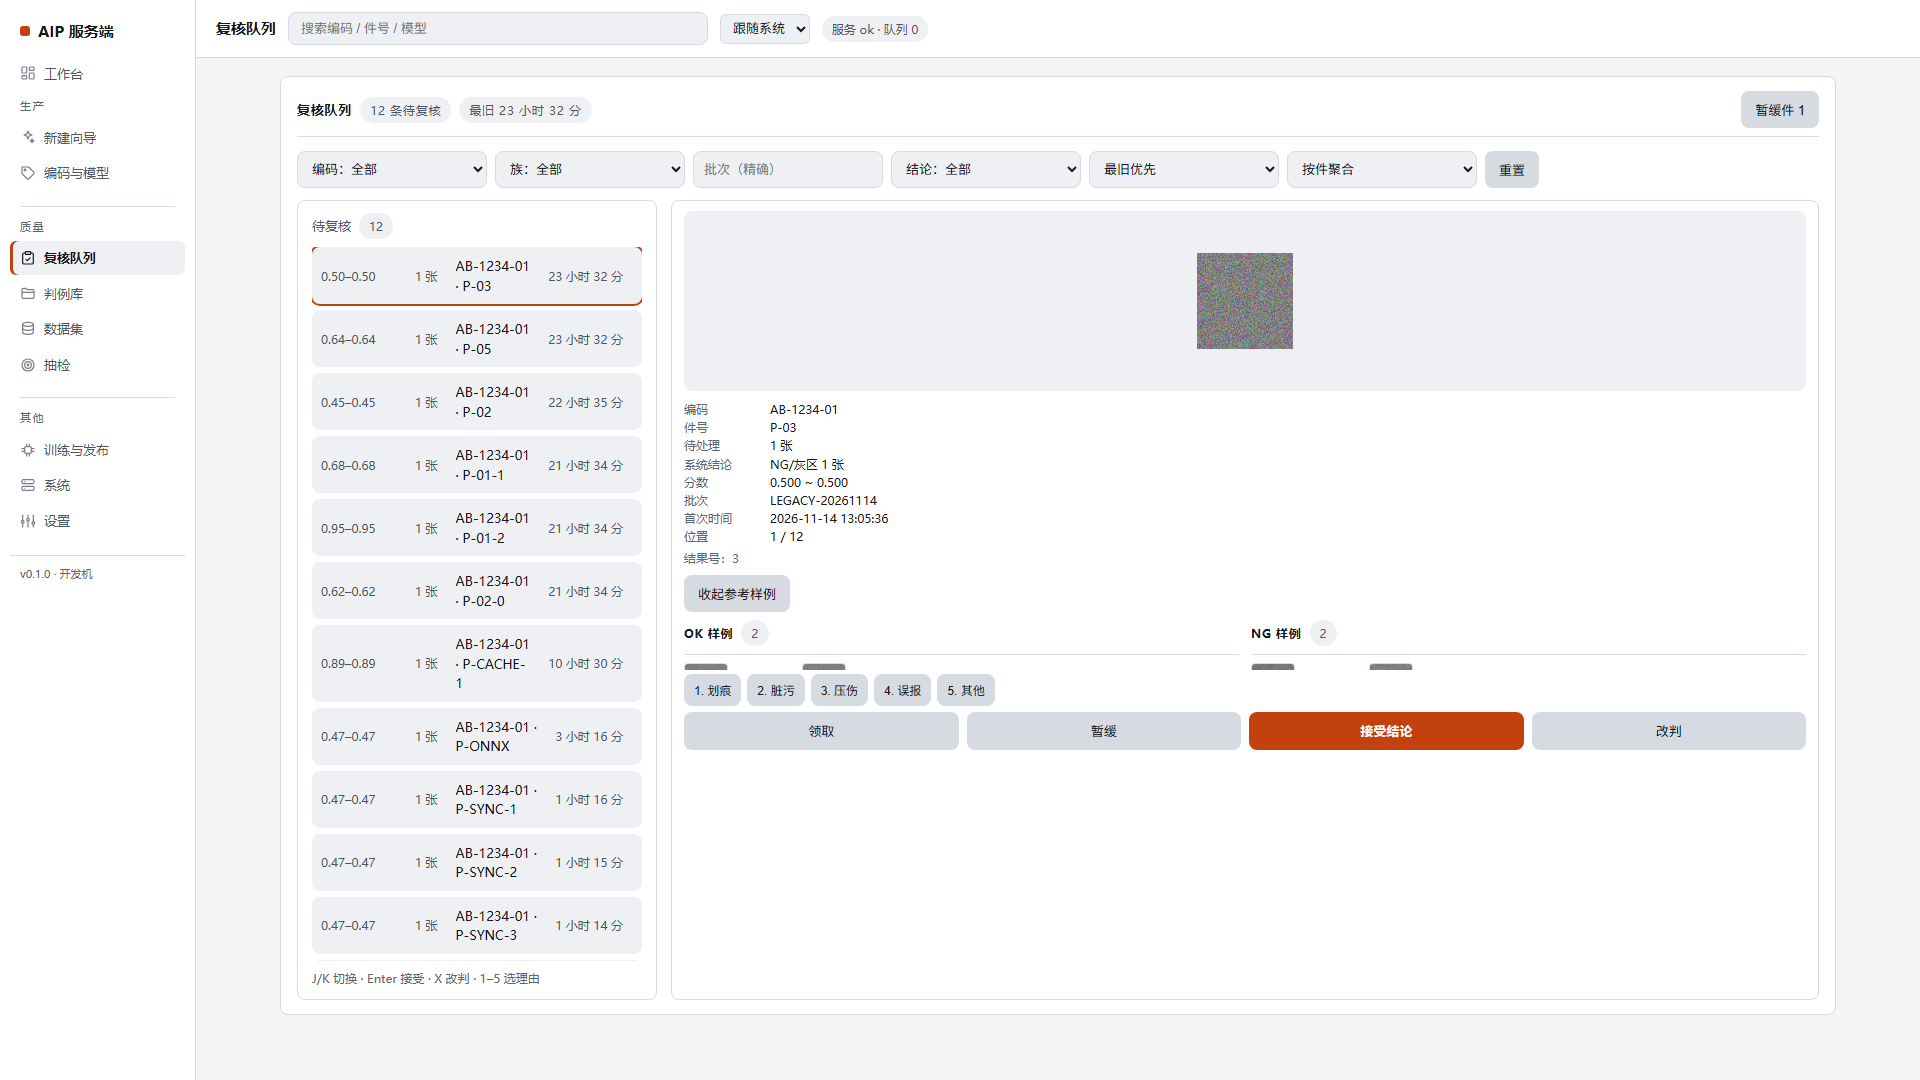
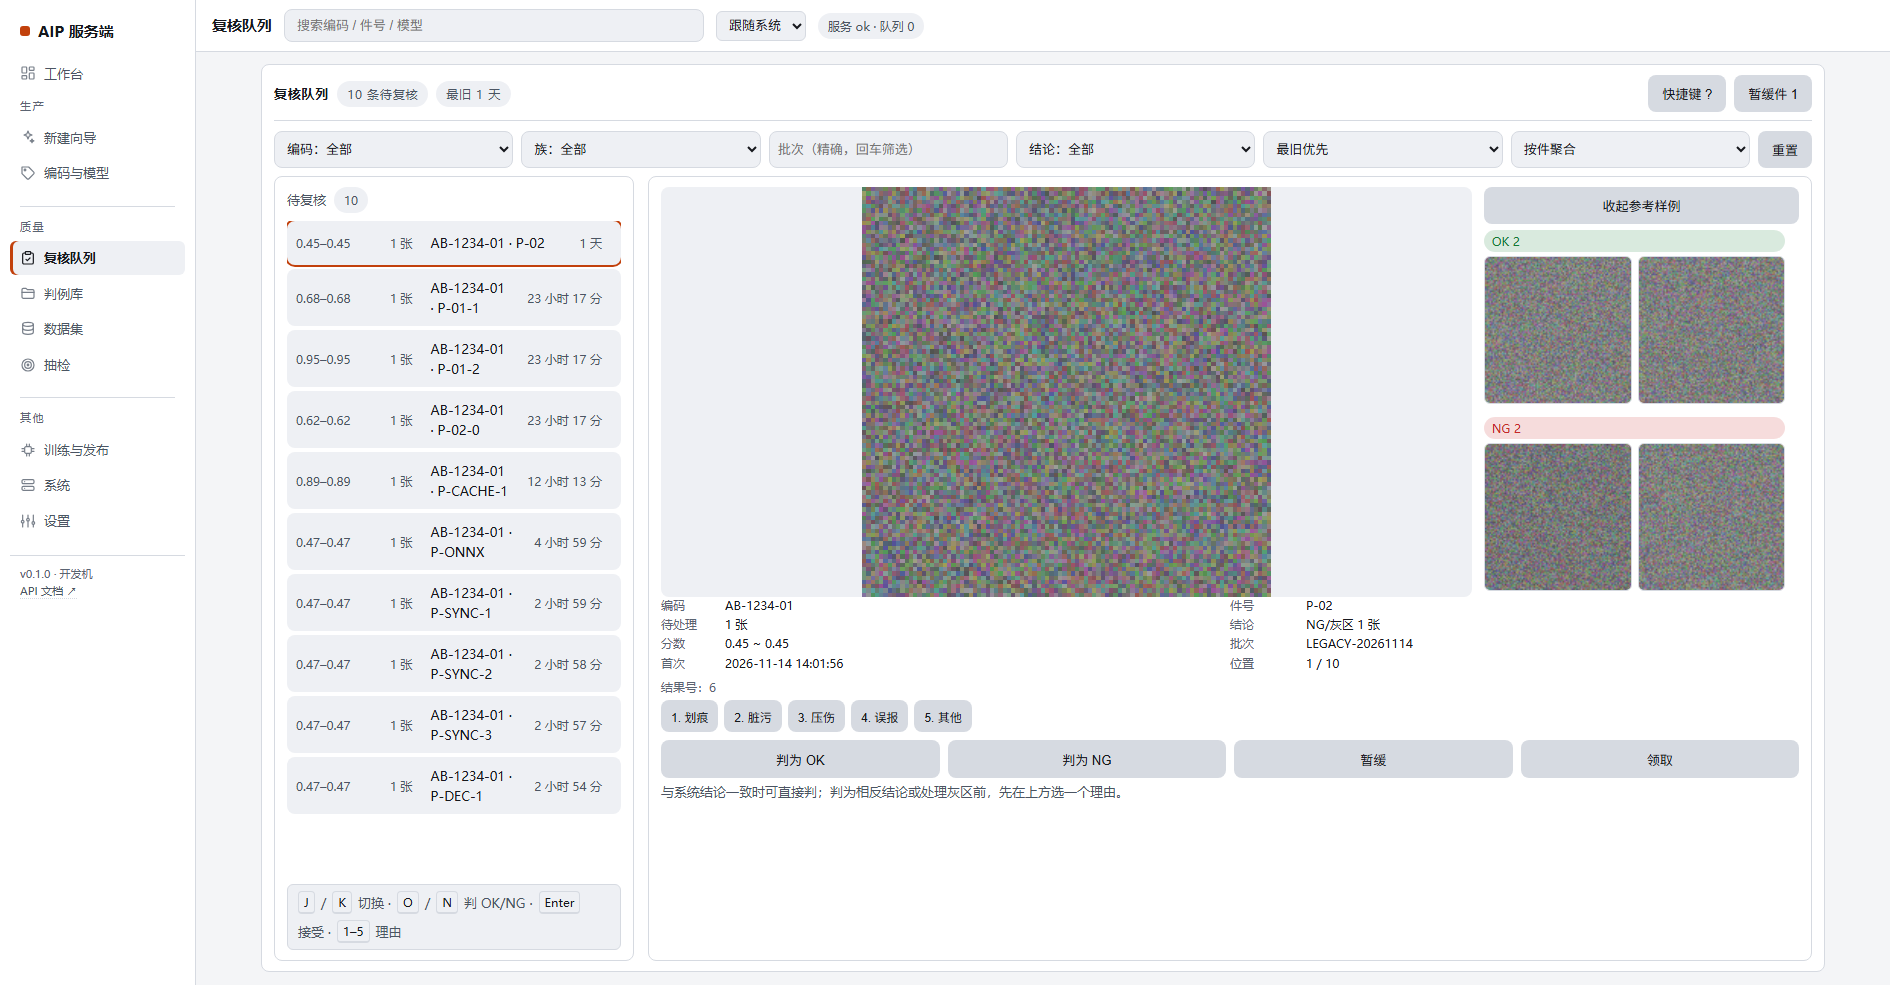
style: 参考样例按视口高度伸缩（1440→121px，1920→148px），主图 356/410px

diff --git a/aip/web/admin.html b/aip/web/admin.html
@@ -258,7 +258,7 @@
   .wiz-body{margin-top:12px}
   .chip-static{background:var(--g2);border:1px solid var(--g3);border-radius:999px;padding:6px 12px;font-size:12px;color:var(--t2)}
   .item .score{flex:0 0 76px;white-space:nowrap;font-size:12px;font-variant-numeric:tabular-nums;color:var(--t2)}
-  .hero{display:grid;grid-template-columns:1fr 250px;gap:12px;align-items:stretch;flex:0 0 auto}
+  .hero{display:grid;grid-template-columns:1fr clamp(240px, 32vh, 340px);gap:12px;align-items:stretch;flex:0 0 auto}
   .hero-side{display:flex;flex-direction:column;gap:6px;min-width:0}
   .shot{background:var(--g2);border-radius:8px;min-height:170px;height:100%;flex:0 0 auto;position:relative;
     display:flex;align-items:center;justify-content:center;overflow:hidden;margin-bottom:10px}
@@ -270,11 +270,11 @@
   .ref-strip{display:flex;flex-direction:column;gap:8px;align-items:flex-start}
   .ref-group{display:flex;flex-direction:column;gap:4px}
   .ref-thumbs{display:flex;gap:6px;flex-wrap:wrap}
-  .ref-strip figure{margin:0;width:110px}
-  .ref-strip img{width:110px;height:110px;object-fit:cover;border-radius:6px;border:1px solid var(--g3);background:var(--g2);cursor:zoom-in}
+  .ref-strip figure{margin:0;width:clamp(108px, 15vh, 156px)}
+  .ref-strip img{width:clamp(108px, 15vh, 156px);height:clamp(108px, 15vh, 156px);object-fit:cover;border-radius:6px;border:1px solid var(--g3);background:var(--g2);cursor:zoom-in}
     border:1px solid var(--g3);background:var(--g2);cursor:zoom-in}
   .ref-strip figcaption{display:none}
-  .ref-more{width:110px;height:110px;border-radius:6px;border:1px dashed var(--g3);
+  .ref-more{width:clamp(108px, 15vh, 156px);height:clamp(108px, 15vh, 156px);border-radius:6px;border:1px dashed var(--g3);
     background:var(--g2);color:var(--t2);font-size:12px;cursor:pointer}
   .ref-strip .tag{flex:0 0 auto}
   .ref-strip .tag.ok{background:color-mix(in oklab,var(--ok) 16%,transparent);color:var(--ok)}
